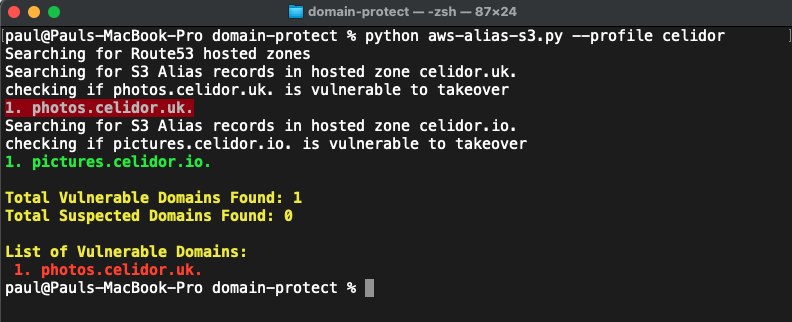
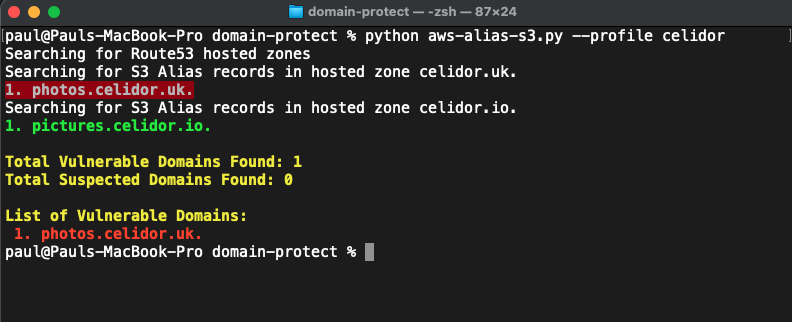
S3 alias test

Changed region(s): [[0.0, 0.2484, 0.6667, 0.9317]]

diff --git a/aws-alias-s3.py b/aws-alias-s3.py
@@ -109,7 +109,7 @@ class route53:
                 for record in record_sets['ResourceRecordSets']:
                     if "AliasTarget" in record:
                         if (record['AliasTarget']['DNSName']).endswith('amazonaws.com.') and "s3-website" in (record['AliasTarget']['DNSName']):
-                            print("checking if " + record['Name'] + " is vulnerable to takeover")
+                            #print("checking if " + record['Name'] + " is vulnerable to takeover")
                             i=i+1
                             cname_record = record['Name']
                             result, exception_message=vulnerable_alias_s3(cname_record)
